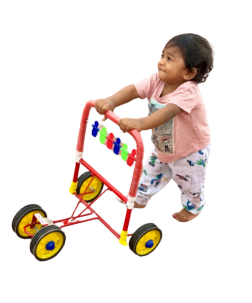
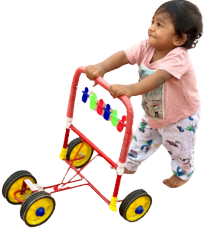
add responsive to homepage

diff --git a/src/Components/Section2/Section2.css b/src/Components/Section2/Section2.css
@@ -17,16 +17,17 @@
     position: relative;
 }
 .sec2-cot1-img {
-    width: 60%;
-    position: relative;
-    top: -7rem;
+    width: 45%;
+    position: absolute;
+    bottom: 0rem;
+    right: 1rem;
 }
 .sec2-cot1-img img{
     width: 100%;
-    object-fit: none;
+    object-fit: fill;
 }
 .sec2-cot-img {
-    width: 60%;
+    width: 55%;
     position: absolute;
     height: fit-content;
     display: flex;
@@ -58,22 +59,54 @@
     border-radius: 5px;
 }
 .sec2-cat2 {
+    position: relative;
     display: flex;
     background-color: #DF88929E;
     width: 30%;
     border-radius: 1rem;
-    justify-content: space-around;
+    justify-content: left;
     height: 20vh;
     flex-direction: row-reverse;
     padding: 1rem;
 }
 .sec2-cat3 {
+    position: relative;
     display: flex;
     background-color: #2CA06E4D;
     width: 30%;
     border-radius: 1rem;
-    justify-content: space-around;
+    justify-content: left;
     height: 20vh;
     flex-direction: row-reverse;
     padding: 1rem;
+}
+
+
+@media only  screen and (width<=600px) {
+    .section2 {
+        display: flex;
+        justify-content: space-between;
+        padding-left: 0rem;
+        padding-right: 0rem;
+        padding-bottom: 5rem;
+        flex-direction: column;
+        padding-top: 8rem;
+        align-items: center;
+        gap: 4rem;
+    }
+    .sec2-cat1 {
+        width: 85%;
+    }
+    .sec2-cot-img {
+        width: 45%;
+    }
+    .sec2-cat2 {
+        width: 85%;
+    }
+    .sec2-cot1-img {
+        width: 45%;
+    }
+    .sec2-cat3 {
+        width: 85%;
+    }
 }

diff --git a/src/Components/Slider/VariationSlider.css b/src/Components/Slider/VariationSlider.css
@@ -1,10 +1,10 @@
 .slider-container {
-    width: 70%;
-    margin: auto;
-    display: flex;
-    text-align: center;
-    flex-direction: column;
-    margin-top: 5rem;
+  width: 70%;
+  margin: auto;
+  display: flex;
+  text-align: center;
+  flex-direction: column;
+  margin-top: 5rem;
 }
 .slider-mark {
   width: 40px;
@@ -34,12 +34,46 @@
   color: white;
 }
 .rc-slider-mark-text {
-    position: absolute;
-    display: inline-block;
-    width: max-content;
-    font-size: 1.5rem;
+  position: absolute;
+  display: inline-block;
+  width: max-content;
+  font-size: 1.5rem;
+  text-align: center;
+  vertical-align: middle;
+  cursor: pointer;
+  margin-top: 4rem;
+}
+
+@media only screen and (width<=600px) {
+  .slider-container {
+    width: 85%;
+    margin: auto;
+    display: flex;
     text-align: center;
-    vertical-align: middle;
-    cursor: pointer;
-    margin-top: 4rem;
+    flex-direction: column;
+    margin-top: 2rem;
+  }
+  .rc-slider {
+    width: 100%;
+    height: 0px;
+    margin-top: 2rem;
+    padding: 0px 0;
+  }
+  .rc-slider-handle {
+    height: 10vw;
+    width: 10vw;
+  }
+  .rc-slider-mark-text {
+    font-size: 1.5rem;
+    width: min-content;
+    margin-top: 2rem;
+  }
+  .sec4btn-div button {
+    background-color: #27b09ecc;
+    color: white;
+    padding: 1rem;
+    padding-left: 2rem;
+    padding-right: 2rem;
+    font-size: 1.5rem;
+  }
 }

diff --git a/src/App.jsx b/src/App.jsx
@@ -20,6 +20,7 @@ import Checkout from "./Pages/Checkout.jsx";
 import Success from "./Pages/Success";
 import Choosemembership from "./Pages/Choosemembership.jsx";
 import Blogs from "./Pages/Blogs.jsx";
+import UpadatePassword from "./Pages/UpadatePassword.jsx";
 //components
 import  {Protected,UnRProtected} from "./Components/protected/Protected.jsx"
 // Style
@@ -51,6 +52,7 @@ const App = () => {
         <Route path="/signup" element={<Protected Component={Signup} />} />
         <Route path="/fpassword" element={<Protected Component={Fpassword} />} />
         <Route path="/profile" element={<UnRProtected Component={Profile}/>} />
+        <Route path="/updatepassword" element={<UpadatePassword/>} />
         <Route path="/successignup" element={<SuccesSignup/>} />
         <Route path="/store" element={<Store/>}>
           <Route path="/store" element={<AllStore/>} />

diff --git a/src/Components/ProfileBox/ProfileBox.jsx b/src/Components/ProfileBox/ProfileBox.jsx
@@ -4,6 +4,7 @@ import {useSelector,useDispatch} from "react-redux"
 import "./Profilebox.css"
 import {useNavigate} from "react-router-dom"
 import EditIcon from '@mui/icons-material/Edit';
+import { Link } from 'react-router-dom'
 const ProfileBox = () => {
     const navigate = useNavigate();
     const dispatch  = useDispatch()
@@ -40,7 +41,7 @@ const ProfileBox = () => {
                 <h1>Personal <span>Information</span></h1>
                 <div className='editprofile-div' >
                 <EditIcon className='editprofile-icon' />
-                <button>Update Password</button>
+                <Link to="/updatepassword" >Update Password</Link>
                 </div>
             </div>
             {

diff --git a/src/Pages/UpadatePassword.jsx b/src/Pages/UpadatePassword.jsx
@@ -1,0 +1,17 @@
+import React from 'react'
+import Navbar from '../Components/Navbar/Navbar'
+import SignupTopBanner from '../Components/SignupTopBanner/SignupTopBanner.jsx'
+import Fpassbox from '../Components/Fpassbox/Fpassbox.jsx'
+import Footer from '../Components/Footer/Footer'
+const UpadatePassword = () => {
+  return (
+  <>
+  <Navbar/>
+  <SignupTopBanner name={"Update Password"} />
+  <Fpassbox/>
+  <Footer/>
+  </>
+  )
+}
+
+export default UpadatePassword

diff --git a/src/Components/Section4/Section4.css b/src/Components/Section4/Section4.css
@@ -77,3 +77,25 @@
 .sec4btn-div :nth-child(2){
     background-color: #E5635FCC;
 }
+
+
+@media only screen and (width<=600px){
+    .section4 h2 {
+        margin-left: 3rem;
+    }
+    .sec3btn-div {
+        margin-top: 5rem;
+        display: flex;
+        justify-content: center;
+        align-items: center;
+        gap: 1rem;
+    }
+    .sec3btn-div button {
+        font-size: 1.8rem;
+    }
+
+    .sec4-cont p {
+        width: 100%;
+    }
+  
+}

diff --git a/src/Components/Section3/Section3.css b/src/Components/Section3/Section3.css
@@ -82,3 +82,25 @@
     font-weight: 500;
     border: none;
 }
+
+
+@media only screen and (width<=600px) {
+    .section3 h2 {
+        margin-left: 3rem;
+        font-size: 4rem;
+    }
+    .section3-Img video {
+        width: 90%;
+    }
+    .section3-ContBox {
+        flex-direction: column;
+        align-items: center;
+        margin-top: 5rem;
+    }
+    .sec3box {
+        width: 80%;
+    }
+    .sec3btn {
+        margin-top: 5rem;
+    }
+}

diff --git a/src/Components/ProfileBox/Profilebox.css b/src/Components/ProfileBox/Profilebox.css
@@ -38,6 +38,15 @@
     border-radius: 5px;
     font-size: 1.5rem;
 }
+.editprofile-div a{
+    background-color: #147AA9;
+    color: white;
+    padding: 0.7rem;
+    cursor: pointer;
+    border: none;
+    border-radius: 5px;
+    font-size: 1.5rem;
+}
 .profilebox-deatils{
     display: flex;
     flex-wrap: wrap;

diff --git a/src/Components/Section1/Section1.css b/src/Components/Section1/Section1.css
@@ -64,3 +64,19 @@
 .section-Img img{
     width: 100%;
 }
+
+
+@media only screen and (width<=600px){
+    
+    .section1 {
+        flex-direction: column;
+        gap: 3rem;
+    }
+    .section1-cont {
+        width: 100%;
+        margin-top: 5rem;
+    }
+    .section-Img {
+        width: 100%;
+    }
+}
